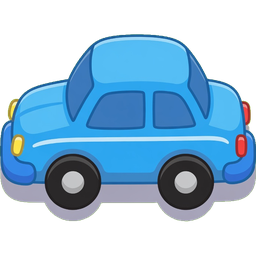
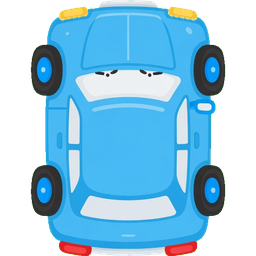
Stats i top-HUD, mindre mission-overlay, balance og bil-art
Bottom-stats flyttet op i menuen. Opgaver/mål er lukket som
standard. Mildere banemål og startpenge. Opdaterede bil/lastbil-
sprites.

diff --git a/index.html b/index.html
@@ -46,26 +46,46 @@
         <button id="btn-hud-mini" type="button" class="hud-tool" title="Skjul menu">▴</button>
         <button id="btn-hud-expand" type="button" class="hud-tool hud-expand-btn" title="Vis menu">☰</button>
       </div>
-      <!-- Række 3: opgaver (+ mål når campaign) -->
+      <!-- Række 3: kompakte missioner (lukket som standard – dækker mindre kort) -->
       <div class="hud-missions">
         <div id="jobs-panel" class="hud-jobs">
           <button type="button" id="btn-jobs-toggle" class="hud-jobs-toggle touch-manipulation">
             <span class="hud-jobs-title">
               Opgaver <span id="jobs-count" class="hud-jobs-count">(0)</span>
             </span>
-            <span id="jobs-chevron" class="hud-jobs-chevron">▼</span>
+            <span id="jobs-chevron" class="hud-jobs-chevron">▶</span>
           </button>
-          <ul id="jobs-list" class="hud-jobs-list">
+          <ul id="jobs-list" class="hud-jobs-list hidden">
             <li class="text-stone-400 italic">Ingen endnu…</li>
           </ul>
         </div>
         <div id="goals-panel" class="hud-goals hidden">
-          <div class="hud-goals-head">
+          <button type="button" id="btn-goals-toggle" class="hud-goals-head hud-goals-toggle touch-manipulation">
             <span id="goals-title" class="truncate">Mål</span>
-            <span id="goals-stars" class="hud-stars">☆☆☆</span>
-          </div>
-          <ul id="goals-list" class="hud-goals-list"></ul>
+            <span class="flex items-center gap-1">
+              <span id="goals-stars" class="hud-stars">☆☆☆</span>
+              <span id="goals-chevron" class="hud-jobs-chevron">▶</span>
+            </span>
+          </button>
+          <ul id="goals-list" class="hud-goals-list hidden"></ul>
         </div>
+      </div>
+
+      <!-- Række 4: live-stats (flyttet fra bunden) -->
+      <div id="stats" class="hud-stats" aria-label="Status">
+        <span title="Flåde"><b id="fleet-count">0/3</b> flåde</span>
+        <span class="hud-stats-dot">·</span>
+        <span title="Biler ude"><b id="car-count">0</b> ude</span>
+        <span class="hud-stats-dot">·</span>
+        <span title="Veje"><b id="road-count">0</b> veje</span>
+        <span class="hud-stats-dot">·</span>
+        <span title="Leveret"><b id="arrived-count">0</b></span>
+        <span class="hud-stats-dot">·</span>
+        <span title="Score"><b id="best-count">0</b></span>
+        <span class="hud-stats-dot">·</span>
+        <span title="Rekord">★ <b id="alltime-count">0</b></span>
+        <span class="hud-stats-dot">·</span>
+        <span title="Flow"><b id="flow-pct">0%</b></span>
       </div>
     </div>
   </header>
@@ -97,29 +117,10 @@
     <button id="btn-zoom-reset" type="button" class="zoom-btn w-12 h-12 bg-white hover:bg-stone-50 rounded-xl shadow-md border border-stone-300 text-[11px] font-semibold text-stone-700 active:scale-95 transition" title="Nulstil zoom" aria-label="Nulstil zoom"><span id="zoom-label">100%</span></button>
   </div>
 
-  <!-- Stats -->
-  <div id="stats" class="fixed bottom-2 left-2 right-2 sm:left-4 sm:right-4 z-20 pointer-events-none">
-    <div class="bg-white/90 backdrop-blur rounded-xl px-2.5 py-1.5 sm:px-3 sm:py-2 shadow border border-stone-200 text-[10px] sm:text-sm text-stone-700 flex flex-wrap gap-x-1.5 sm:gap-x-2 gap-y-0.5 justify-center sm:justify-start">
-      <span>flåde <span id="fleet-count">0/3</span></span>
-      <span>·</span>
-      <span><span id="car-count">0</span> ude</span>
-      <span>·</span>
-      <span><span id="road-count">0</span> veje</span>
-      <span>·</span>
-      <span><span id="arrived-count">0</span> leveret</span>
-      <span>·</span>
-      <span>score <span id="best-count">0</span></span>
-      <span>·</span>
-      <span>rekord <span id="alltime-count">0</span></span>
-      <span>·</span>
-      <span>flow <span id="flow-pct">0%</span></span>
-    </div>
-  </div>
-
   <!-- By-panel: køb / opgrader flåde (bottom sheet – mobilvenlig) -->
   <div id="district-sheet" class="fixed inset-x-0 bottom-0 z-30 hidden pointer-events-none">
     <div class="pointer-events-auto mx-auto w-full max-w-md px-3 pb-[max(0.75rem,env(safe-area-inset-bottom))]">
-      <div class="bg-white/95 backdrop-blur rounded-t-2xl sm:rounded-2xl shadow-xl border border-stone-200 p-3 sm:p-4 mb-14 sm:mb-16 max-h-[min(70vh,28rem)] flex flex-col">
+      <div class="bg-white/95 backdrop-blur rounded-t-2xl sm:rounded-2xl shadow-xl border border-stone-200 p-3 sm:p-4 mb-4 sm:mb-6 max-h-[min(70vh,28rem)] flex flex-col">
         <div class="flex items-start justify-between gap-2 mb-2 shrink-0">
           <div class="min-w-0">
             <h3 id="ds-title" class="text-lg font-bold text-stone-800 truncate">By</h3>

diff --git a/js/main.js b/js/main.js
@@ -211,6 +211,8 @@ function refreshGoalsUi() {
         <span class="truncate">${d.done ? '✓' : '○'} ${escapeHtml(d.label)}</span>
         <span class="tabular-nums shrink-0 text-stone-500">${escapeHtml(d.progress)}</span>
       </li>`).join('');
+    // Keep collapsed unless user opened
+    list.classList.toggle('hidden', !goalsExpanded);
   }
 
   // Auto-save stars when they increase; show end panel at 3★
@@ -275,26 +277,33 @@ bindZoomBtn('btn-zoom-out', () => game.zoomBy(1 / 1.2));
 bindZoomBtn('btn-zoom-fit', () => game.fitCamera());
 bindZoomBtn('btn-zoom-reset', () => game.resetCamera());
 
-// Foldbare opgaver – default lukket på smal skærm (Nord må ikke dækkes)
-let jobsExpanded = !window.matchMedia('(max-width: 640px)').matches;
+// Foldbare opgaver/mål – altid lukket som standard (mindre kort-dække)
+let jobsExpanded = false;
+let goalsExpanded = false;
 const jobsList = document.getElementById('jobs-list');
 const jobsChevron = document.getElementById('jobs-chevron');
 function setJobsExpanded(on) {
   jobsExpanded = on;
   if (jobsList) jobsList.classList.toggle('hidden', !on);
   if (jobsChevron) jobsChevron.textContent = on ? '▼' : '▶';
-  // Recalc HUD offset after expand/collapse
-  requestAnimationFrame(() => {
-    const hud = document.getElementById('ui');
-    if (hud) {
-      document.documentElement.style.setProperty(
-        '--hud-offset',
-        `${Math.ceil(hud.getBoundingClientRect().height) + 8}px`
-      );
-    }
-  });
+  requestAnimationFrame(updateHudOffset);
 }
-setJobsExpanded(jobsExpanded);
+setJobsExpanded(false);
+
+function setGoalsExpanded(on) {
+  goalsExpanded = on;
+  const gl = document.getElementById('goals-list');
+  const gc = document.getElementById('goals-chevron');
+  if (gl) gl.classList.toggle('hidden', !on);
+  if (gc) gc.textContent = on ? '▼' : '▶';
+  requestAnimationFrame(updateHudOffset);
+}
+setGoalsExpanded(false);
+document.getElementById('btn-goals-toggle')?.addEventListener('click', (e) => {
+  e.preventDefault();
+  e.stopPropagation();
+  setGoalsExpanded(!goalsExpanded);
+});
 function bindTap(id, fn) {
   const el = document.getElementById(id);
   if (!el) return;

diff --git a/js/scenarios.js b/js/scenarios.js
@@ -49,14 +49,14 @@ export const SCENARIOS = [
     name: 'Første forbindelser',
     blurb: 'Lille dal – lær at forbinde by og landbrug.',
     seed: 101,
-    startMoney: 1100,
+    startMoney: 1250,
     worldScale: 1.08,
     unlockLevel: 1,
     layout: LAYOUT_INTRO,
     goals: [
-      { type: 'deliver', amount: 10, stars: 1 },
+      { type: 'deliver', amount: 8, stars: 1 },
       { type: 'connect_all', stars: 1 },
-      { type: 'money', amount: 500, stars: 1 }
+      { type: 'money', amount: 400, stars: 1 }
     ]
   },
   {
@@ -64,14 +64,14 @@ export const SCENARIOS = [
     name: 'Kyststrækningen',
     blurb: 'Havn, fabrik og marker – gods skal ud.',
     seed: 202,
-    startMoney: 1000,
+    startMoney: 1150,
     worldScale: 1.22,
     unlockLevel: 2,
     layout: LAYOUT_COAST,
     goals: [
-      { type: 'deliver', amount: 18, stars: 1 },
-      { type: 'jobs', amount: 3, stars: 1 },
-      { type: 'money', amount: 550, stars: 1 }
+      { type: 'deliver', amount: 14, stars: 1 },
+      { type: 'jobs', amount: 2, stars: 1 },
+      { type: 'money', amount: 450, stars: 1 }
     ]
   },
   {
@@ -79,14 +79,14 @@ export const SCENARIOS = [
     name: 'Industri-dalen',
     blurb: 'Stort kort – fuld netværks-udfordring.',
     seed: 303,
-    startMoney: 950,
+    startMoney: 1100,
     worldScale: 1.42,
     unlockLevel: 3,
     layout: LAYOUT_VALLEY,
     goals: [
-      { type: 'deliver', amount: 28, stars: 1 },
+      { type: 'deliver', amount: 22, stars: 1 },
       { type: 'connect_all', stars: 1 },
-      { type: 'jobs', amount: 5, stars: 1 }
+      { type: 'jobs', amount: 4, stars: 1 }
     ]
   },
   {
@@ -94,7 +94,7 @@ export const SCENARIOS = [
     name: 'Sandkasse',
     blurb: 'Fri leg på det store standardkort. Ingen stjerne-krav.',
     seed: 42,
-    startMoney: 1200,
+    startMoney: 1400,
     worldScale: 1.38,
     unlockLevel: 1,
     layout: null, // default full layout

diff --git a/style.css b/style.css
@@ -222,8 +222,7 @@ body {
 
 /* Mini HUD when zoomed in – only status; ☰ expands */
 .hud.hud-compact .hud-tools,
-.hud.hud-compact .hud-missions,
-.hud.hud-compact .hud-hint {
+.hud.hud-compact .hud-missions {
   display: none;
 }
 
@@ -314,9 +313,9 @@ body {
   list-style: none;
   margin: 0.15rem 0 0;
   padding: 0;
-  max-height: 4.5rem;
+  max-height: 3.4rem; /* max ~2–3 jobs – sparer kortflade */
   overflow-y: auto;
-  font-size: 0.7rem;
+  font-size: 0.68rem;
   color: #44403c;
   line-height: 1.25;
 }
@@ -373,6 +372,52 @@ body {
   font-size: 0.68rem;
   color: #78716c;
   line-height: 1.3;
+  max-height: 3.2rem;
+  overflow-y: auto;
+}
+
+.hud-goals-list.hidden {
+  display: none;
+}
+
+.hud-goals-toggle {
+  width: 100%;
+  background: transparent;
+  border: 0;
+  padding: 0;
+  cursor: pointer;
+  text-align: left;
+}
+
+/* Live stats strip in top HUD (was bottom bar) */
+.hud-stats {
+  display: flex;
+  flex-wrap: wrap;
+  align-items: center;
+  gap: 0.15rem 0.35rem;
+  padding: 0.28rem 0.4rem;
+  border-radius: 0.65rem;
+  background: linear-gradient(180deg, #f5f5f4, #eeeee9);
+  border: 1px solid #e7e5e4;
+  font-size: 0.65rem;
+  font-weight: 600;
+  color: #57534e;
+  font-variant-numeric: tabular-nums;
+  line-height: 1.25;
+}
+
+.hud-stats b {
+  color: #292524;
+  font-weight: 800;
+}
+
+.hud-stats-dot {
+  color: #d6d3d1;
+  font-weight: 400;
+}
+
+.hud.hud-compact .hud-stats {
+  display: none;
 }
 
 /* Money pulse */

diff --git a/js/game.js b/js/game.js
@@ -35,12 +35,12 @@ import {
   goalLabel
 } from './scenarios.js';
 
-const START_MONEY = 950;
+const START_MONEY = 1200;
 const MAX_JOBS = 5;
-const ROAD_BASE_COST = 9;
-const ROAD_COST_PER_PX = 0.034; // cheaper early roads so missions are playable
-const STUCK_PENALTY_INTERVAL = 4;
-const STUCK_PENALTY = 3;
+const ROAD_BASE_COST = 8;
+const ROAD_COST_PER_PX = 0.03;
+const STUCK_PENALTY_INTERVAL = 5;
+const STUCK_PENALTY = 2;
 
 export class Game {
   constructor(canvas) {
@@ -2013,8 +2013,8 @@ export class Game {
     const mapW = mapCssW * dpr;
     const mapH = mapCssH * dpr;
     const mx = (w - mapW) / 2;
-    // Above stats bar + safe home indicator
-    const my = h - mapH - Math.max(56, 48) * dpr;
+    // Stats er i top-HUD – minimap kan sidde lavere (over home indicator)
+    const my = h - mapH - Math.max(28, 20) * dpr;
 
     const worldW = Math.max(1, this.worldW || w);
     const worldH = Math.max(1, this.worldH || h);
